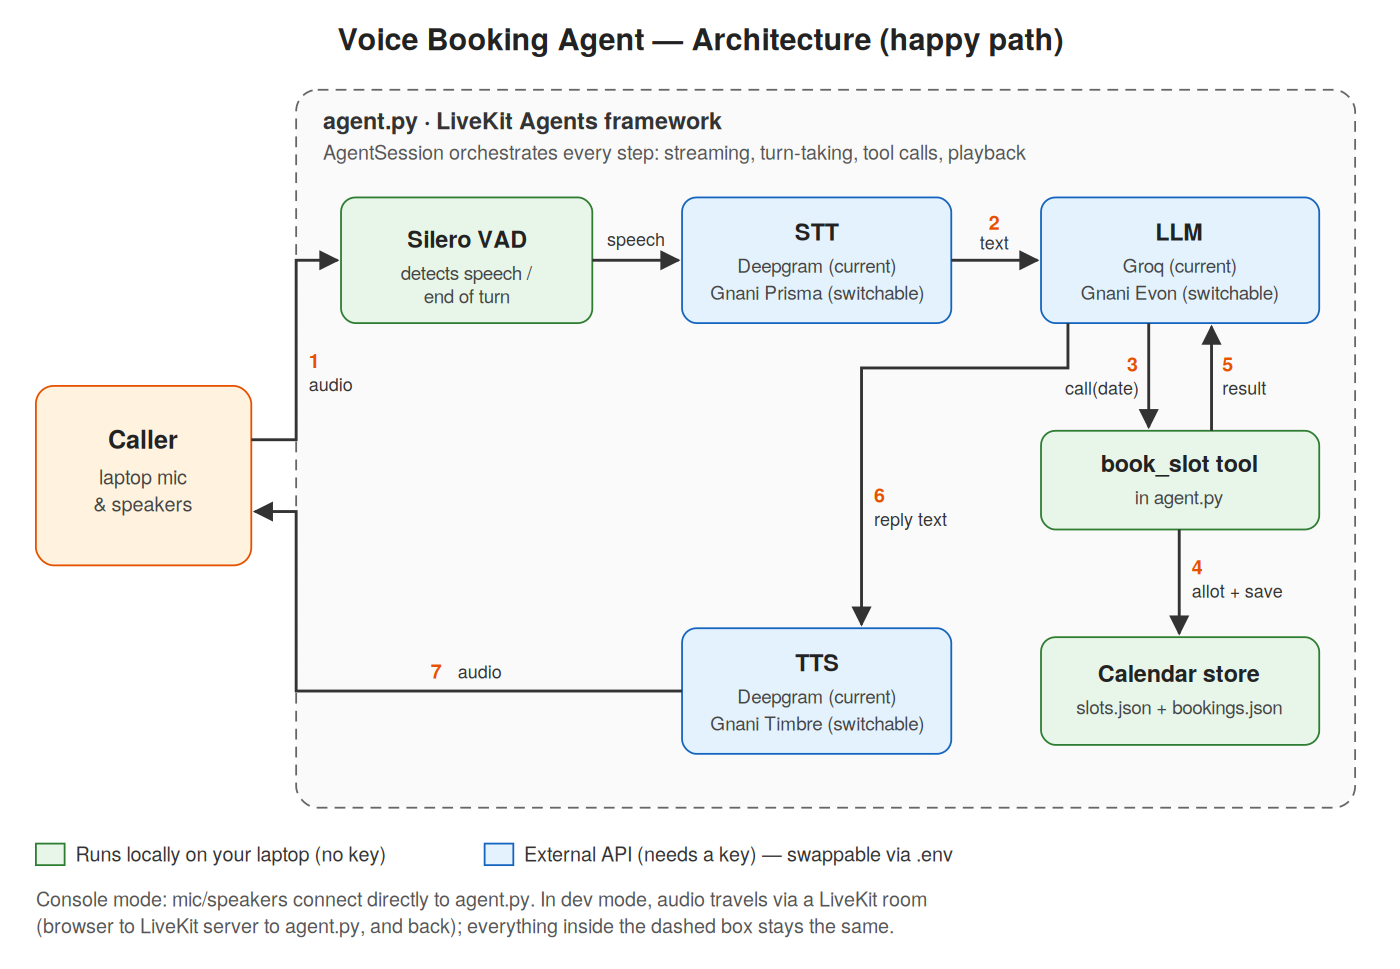
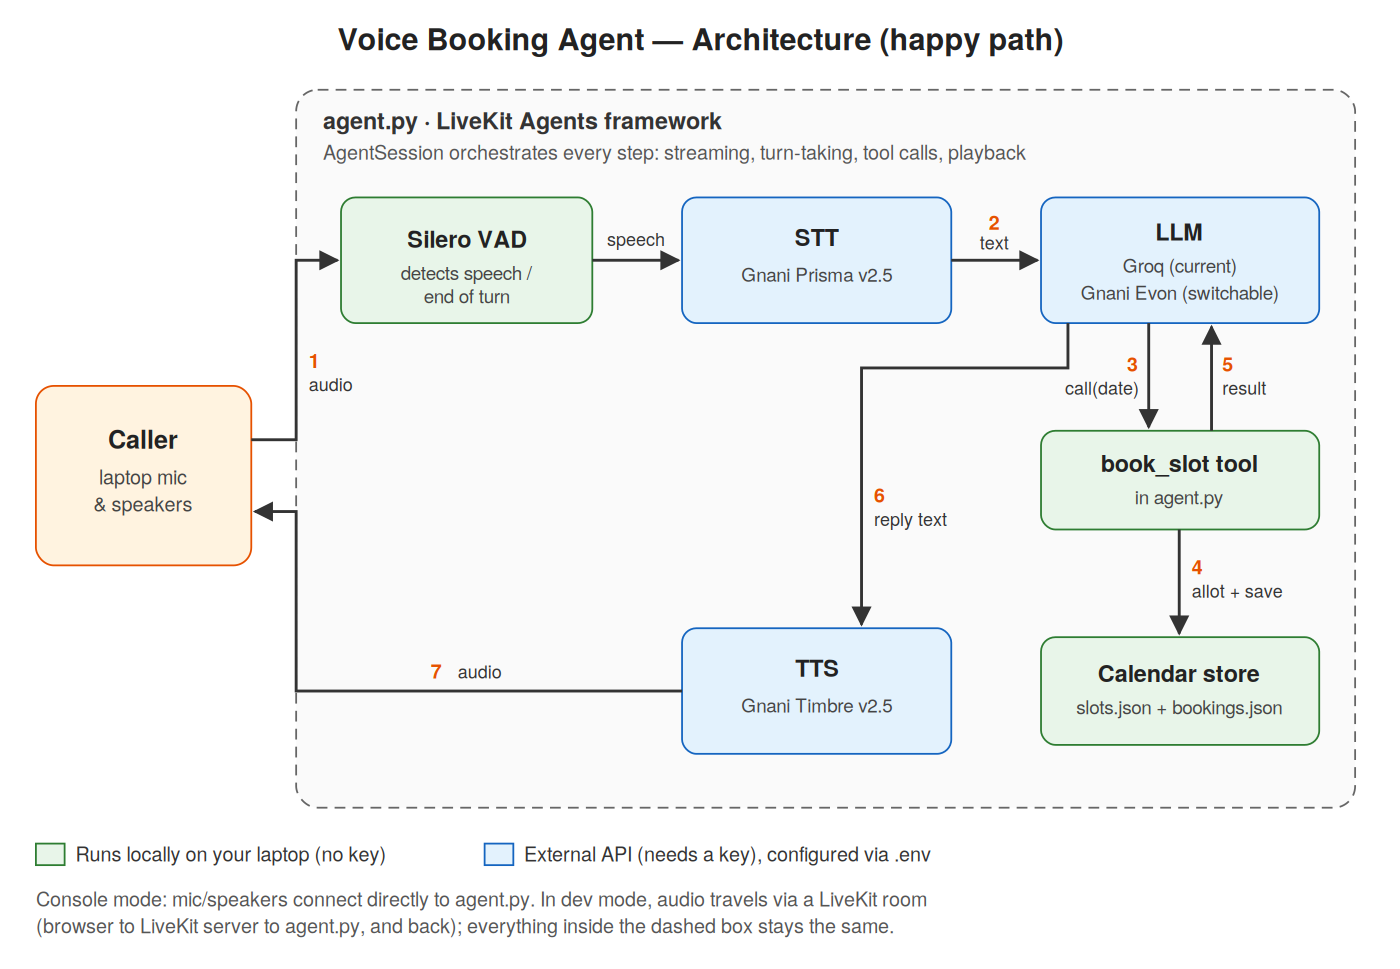
Initial Commit

Changed region(s): [[0.4914, 0.2167, 0.6757, 0.3096], [0.5221, 0.6811, 0.6757, 0.774], [0.5529, 0.8669, 0.6757, 0.8978]]

diff --git a/agent.py b/agent.py
@@ -1,12 +1,13 @@
 """
 Appointment-booking voice agent (happy path only), built on LiveKit Agents.
 
-Flow:  caller speaks a date  ->  STT  ->  LLM extracts the date and calls `book_slot`
-       ->  slot is allotted and saved  ->  LLM writes the confirmation  ->  TTS speaks it.
+Flow:  caller speaks a date  ->  Gnani Prisma (STT)  ->  LLM extracts the date and
+       calls `book_slot`  ->  slot is allotted and saved  ->  LLM writes the
+       confirmation  ->  Gnani Timbre (TTS) speaks it back.
 
-Providers are configured in .env:
-  - SPEECH_PROVIDER = deepgram (current) | gnani (Gnani Prisma STT + Timbre TTS)
-  - LLM_BASE_URL / LLM_API_KEY / LLM_MODEL = any OpenAI-compatible endpoint
+Configuration lives in .env:
+  - GNANI_* settings for speech (language, model, voice)
+  - LLM_BASE_URL / LLM_API_KEY / LLM_MODEL for any OpenAI-compatible LLM
     (currently Groq; can point to Gnani Evon)
 """
 
@@ -25,7 +26,7 @@ from livekit.agents import (
     function_tool,
 )
 # Plugins must be imported at the top of the file (LiveKit registers them on startup)
-from livekit.plugins import deepgram, gnani, openai, silero
+from livekit.plugins import gnani, openai, silero
 
 from calendar_store import allot_and_book
 
@@ -69,14 +70,9 @@ class BookingAgent(Agent):
 
 
 # ---------------------------------------------------------------------------
-# Speech providers — switch with SPEECH_PROVIDER in .env ("deepgram" or "gnani")
+# Speech — Gnani Prisma (STT) and Gnani Timbre (TTS), via Gnani's LiveKit plugin
 # ---------------------------------------------------------------------------
-SPEECH_PROVIDER = os.getenv("SPEECH_PROVIDER", "deepgram").lower()
-
-
 def build_stt():
-    if SPEECH_PROVIDER == "deepgram":
-        return deepgram.STT(model="nova-3", language="en")
     return gnani.STT(
         language=os.getenv("GNANI_STT_LANGUAGE", "en-IN"),
         sample_rate=16000,
@@ -84,11 +80,10 @@ def build_stt():
 
 
 def build_tts():
-    if SPEECH_PROVIDER == "deepgram":
-        return deepgram.TTS()
     return gnani.TTS(
-        voice=os.getenv("GNANI_TTS_VOICE", "Pranav"),
-        model=os.getenv("GNANI_TTS_MODEL", "timbre-v2.0"),
+        model=os.getenv("GNANI_TTS_MODEL", "timbre-v2.5"),
+        voice=os.getenv("GNANI_TTS_VOICE", "Kaveri"),
+        language=os.getenv("GNANI_TTS_LANGUAGE", "en-IN"),
         sample_rate=16000,
     )
 
@@ -110,7 +105,7 @@ def build_llm():
 # ---------------------------------------------------------------------------
 async def entrypoint(ctx: JobContext) -> None:
     await ctx.connect()
-    logger.info("Speech provider: %s | LLM: %s", SPEECH_PROVIDER, os.getenv("LLM_MODEL"))
+    logger.info("Speech: Gnani Prisma + Timbre | LLM: %s", os.getenv("LLM_MODEL"))
 
     session = AgentSession(
         stt=build_stt(),

diff --git a/README.md b/README.md
@@ -1,21 +1,20 @@
-# Voice Booking Agent — LiveKit
+# Voice Booking Agent — LiveKit + Gnani
 
 A voice agent that handles one happy path end to end: **the caller states a date, the
 agent books the allotted slot for that date, and confirms it by voice.**
 
-Built with the [LiveKit Agents](https://docs.livekit.io/agents/) framework.
+Built with the [LiveKit Agents](https://docs.livekit.io/agents/) framework and Gnani's
+LiveKit plugin (`livekit-plugins-gnani`).
 
 **Providers in this build**
 
-| Component | Currently used | Switchable to |
-|---|---|---|
-| Speech-to-text (STT) | Deepgram | Gnani Prisma, via Gnani's LiveKit plugin (`livekit-plugins-gnani`) |
-| Text-to-speech (TTS) | Deepgram | Gnani Timbre, via the same plugin |
-| LLM | Groq (gpt-oss-120b) | Gnani Evon v3.3, or any OpenAI-compatible endpoint |
+| Component | Provider |
+|---|---|
+| Speech-to-text (STT) | Gnani Prisma v2.5 |
+| Text-to-speech (TTS) | Gnani Timbre v2.5 |
+| LLM | Groq (GPT-OSS 120B); switchable to Gnani Evon v3.3 or any OpenAI-compatible endpoint |
 
-Switching is done in `.env` with no code changes (see
-[Switching providers](#switching-providers)). The Gnani integration is already wired in
-`agent.py`; it only needs a Gnani API key.
+The LLM is switched in `.env` with no code changes (see [Switching the LLM](#switching-the-llm)).
 
 📹 **Demo video:** _<add your video link here>_
 
@@ -28,11 +27,11 @@ Switching is done in `.env` with no code changes (see
 **How one call flows (numbers match the diagram):**
 
 1. The caller speaks. Silero VAD (running locally) detects speech and when the caller has finished their turn.
-2. The STT plugin streams the audio to the speech provider and receives the text, e.g. *"Next Monday, please."*
+2. The Gnani STT plugin streams the audio to Gnani Prisma and receives the text, e.g. *"Next Monday, please."*
 3. The LLM understands the date (today's date is in its instructions, so relative dates like "next Monday" resolve correctly) and calls the `book_slot` tool with a `YYYY-MM-DD` date.
 4. `book_slot` asks the calendar store (`calendar_store.py`) to allot the first free slot on that date (from `slots.json`) and save it to `bookings.json`.
 5. The tool returns the result (date, slot, booking ID) to the LLM.
-6. The LLM writes a short spoken confirmation, which is sent to the TTS provider.
+6. The LLM writes a short spoken confirmation, which is sent to Gnani Timbre.
 7. The synthesized audio is played back to the caller.
 
 LiveKit's `AgentSession` orchestrates all of this: streaming audio to STT while the caller
@@ -74,9 +73,8 @@ speaks, turn-taking, tool calls, streaming TTS playback, and interruptions.
 
 | Key | Purpose | Where to get it |
 |---|---|---|
-| `DEEPGRAM_API_KEY` | STT + TTS (current) | console.deepgram.com |
-| `LLM_API_KEY` | LLM (Groq, current) | console.groq.com |
-| `GNANI_API_KEY` | Only if switching to Gnani STT + TTS | speechstack@gnani.ai |
+| `GNANI_API_KEY` | STT + TTS (Gnani Prisma + Timbre) | app.gnani.ai |
+| `LLM_API_KEY` | LLM (Groq as of now, switchable to Evon) | console.groq.com |
 
 No LiveKit account is needed for console mode.
 
@@ -99,7 +97,7 @@ pip install -r requirements.txt
 ```bash
 cp .env.example .env             # Windows: copy .env.example .env
 ```
-Open `.env` and fill in `DEEPGRAM_API_KEY` and `LLM_API_KEY`.
+Open `.env` and fill in `GNANI_API_KEY` and `LLM_API_KEY`.
 
 **4. Download the local VAD model (one time)**
 ```bash
@@ -151,17 +149,9 @@ python calendar_store.py clear 2026-10-12   # delete bookings for one date
 
 ---
 
-## Switching providers
+## Switching the LLM
 
-All providers are set in `.env`; no code changes are needed.
-
-**Speech (STT + TTS)**
-```
-SPEECH_PROVIDER=deepgram    # current
-SPEECH_PROVIDER=gnani       # Gnani Prisma (STT) + Gnani Timbre (TTS); also set GNANI_API_KEY
-```
-
-**LLM**: any OpenAI-compatible endpoint, set with three values:
+The LLM is any OpenAI-compatible endpoint, set in `.env` with three values:
 ```
 # Groq (current)
 LLM_BASE_URL=https://api.groq.com/openai/v1
@@ -172,6 +162,14 @@ LLM_MODEL=openai/gpt-oss-120b
 LLM_BASE_URL=http://<your-evon-server>:8000/v1
 LLM_API_KEY=not-needed
 LLM_MODEL=gnani-evon-v3.3
+```
+
+Gnani speech settings (model, voice, language) are also in `.env`:
+```
+GNANI_STT_LANGUAGE=en-IN
+GNANI_TTS_MODEL=timbre-v2.5
+GNANI_TTS_VOICE=Kaveri
+GNANI_TTS_LANGUAGE=en-IN
 ```
 
 ---
@@ -188,7 +186,7 @@ LLM_MODEL=gnani-evon-v3.3
   without code changes, and bookings are visible and survive restarts.
   `allot_and_book()` in `calendar_store.py` is the single place to swap in a real
   calendar or CRM API; the agent doesn't need to change.
-- **Providers are swappable through LiveKit's plugin slots**, configured in `.env`.
+- **Providers plug into LiveKit's STT, LLM and TTS slots** and are configured in `.env`.
 - **Replies are short, plain spoken text**, since everything the LLM writes is read aloud.
 
 ## Out of scope (by design)
